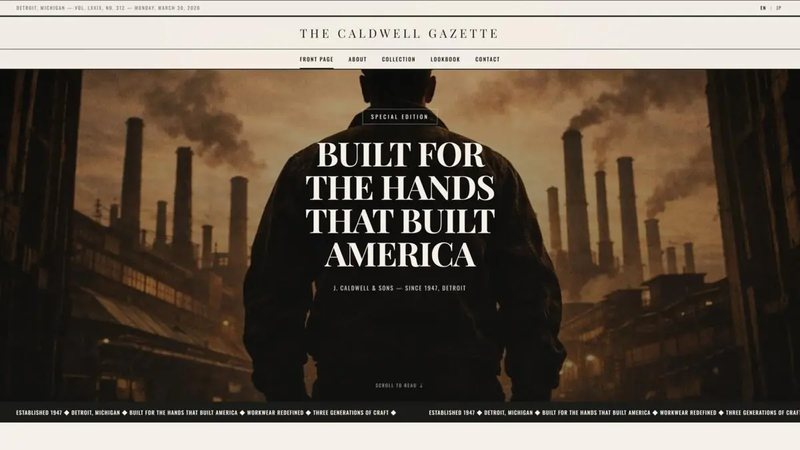
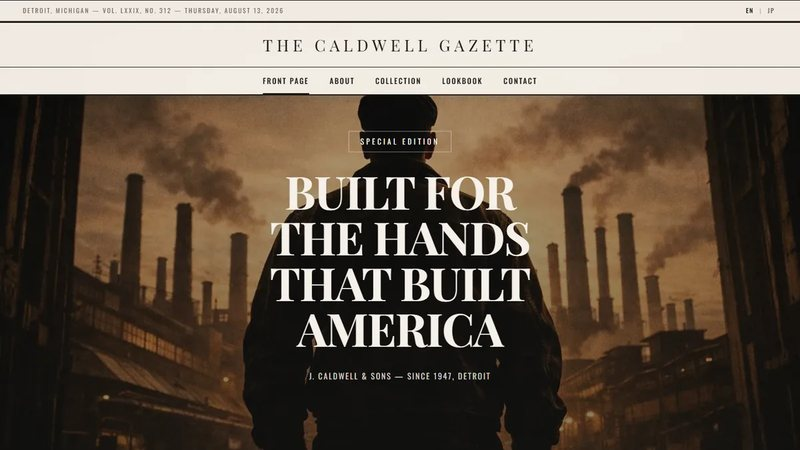
caldwell-sons: 修正後のサムネ差替（サムネ/01/og）＋ works.ts の技術表記を実態に合わせる
- 本体の修正（段組みの文字潰れ・第IV面の文字切れ・日本語組版）を反映した
  フルスクショで thumbnail.webp / 01.webp / og.jpg を再生成
  thumbnail 600x3054 (118KB) / 01 1200x6109 (370KB) / og 800x450 (54KB)
- 撮影は live-shot に2点の取りこぼし修正を当てた版で実施
  (1) scroll-behavior:smooth で走査が最下部に届かず reveal 未発火の偽陽性(exit 3)
  (2) 固定ヘッダーを隠す判定が scrollTo と同 tick で、position:fixed になる前に
      評価されていたため2枚目のタイルにヘッダーが写り込む
- works.ts: 実際には未使用の GSAP を caldwell-sons の technologies から削除
  (外部JSは js/main.js・js/marquee.js・js/contact-form.js のみ)

diff --git a/data/works.ts b/data/works.ts
@@ -313,7 +313,7 @@ export const works: Work[] = [
     tier: "S",
     order: 6,
     category: ["MULTI-LANG"],
-    technologies: ["HTML", "CSS", "JavaScript", "GSAP", "i18n"],
+    technologies: ["HTML", "CSS", "JavaScript", "i18n"],
     description:
       "アパレルブランドのバイリンガル対応サイト。英語・日本語の2言語に対応し、ブランドの世界観を忠実に再現。",
     thumbnail: "/works/caldwell-sons/thumbnail.webp",
